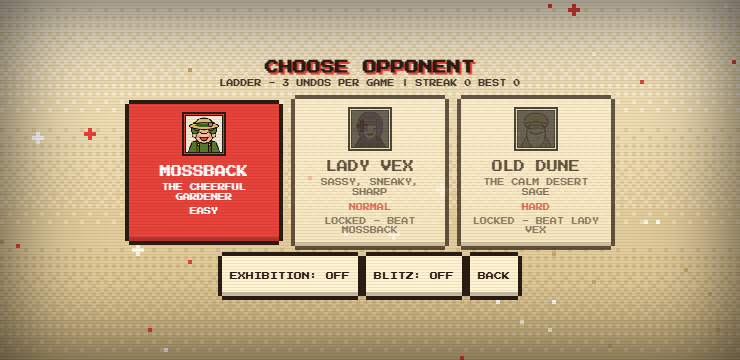
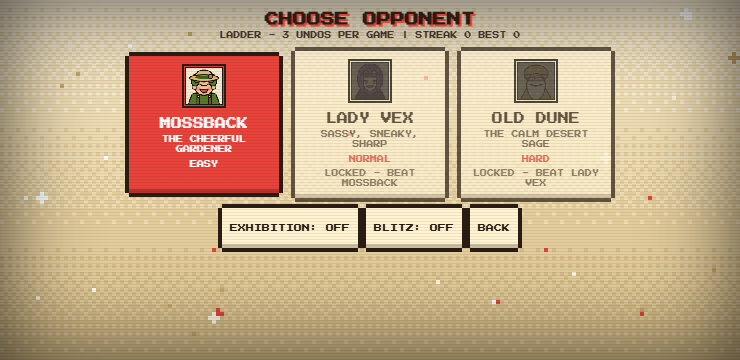
Endless ladder: procedural rivals past NOX
Clearing the campaign opens tier 1 (MOSSBACK I); each win vs the current tier unlocks the next. Tiers recycle the four campaign rivals with roman numerals, sharper every cycle (blunder rate down, one search level above base) and +300ms/cycle thinking budget (cap 1.8s). The ladder screen shows the last beaten tier, the current one, and the next locked with its BEAT teaser. prof.end, rec.eN, and snapshots all persist; endless ids stay out of world boards and local top lists. Also fixes a latent bug where the NOX unlock was dropped on reload, and sceneSet crashing for endless ids (now keyed by opp.sty). Adds tests/endless-test.js (37 checks) and engine-test coverage; 18 suites total.

diff --git a/chess/index.html b/chess/index.html
@@ -231,6 +231,8 @@ button:disabled{opacity:.35;pointer-events:none}
 #bt.idle{opacity:.5}
 #oq{text-align:center!important;font-size:8px!important;opacity:.85;margin:0 0 12px!important}
 #s-opp h2{font-size:14px;margin:0 0 10px;text-shadow:2px 2px 0 var(--accent)}
+/* endless ladders add cards: keep the screen centered when they fit, scrollable when they do not */
+#s-opp{overflow-y:auto}#s-opp h2{margin-top:auto}#s-opp .row{margin-bottom:auto}
 #ol{display:flex;flex-direction:column;align-items:center}
 .oc{display:flex;align-items:center;gap:12px;width:min(88vw,330px);margin:10px 0;padding:10px;text-align:left}
 .oc canvas{width:48px;height:48px;margin:0;flex:none;box-shadow:0 0 0 2px var(--edge)}
@@ -278,7 +280,7 @@ button:disabled{opacity:.35;pointer-events:none}
 .m-subrow .sm-mm .mi{font-size:10px;width:auto;margin-right:4px}
 .m-subrow .sm-mm .mtx{flex:none}
 .sr-only{position:absolute;width:1px;height:1px;padding:0;margin:-1px;overflow:hidden;clip:rect(0,0,0,0);white-space:nowrap;border:0}
-@media (max-height:520px){#ol{flex-direction:row}.oc{flex-direction:column;width:150px;margin:6px 8px;text-align:center}.oc canvas{width:40px;height:40px}.ot{align-items:center}#s-opp h2{margin:0 0 4px}}
+@media (max-height:520px){#ol{flex-direction:row;flex-wrap:wrap;justify-content:center}.oc{flex-direction:column;width:150px;margin:6px 8px;text-align:center}.oc canvas{width:40px;height:40px}.ot{align-items:center}#s-opp h2{margin:0 0 4px}}
 /* wide screens: board on the left, info panel on the right */
 #app.on.wd{top:50%;bottom:auto;transform:translateY(-50%);height:var(--bh,640px);padding:0 var(--padh,28px);display:grid;grid-template-columns:auto var(--pw,460px);grid-template-rows:auto auto auto minmax(0,1fr) auto;column-gap:var(--cg,48px);row-gap:var(--rg,20px);justify-content:center;align-items:stretch;justify-items:stretch}
 .wd #bw{grid-column:1;grid-row:1/6;margin:0;align-self:center}
@@ -294,7 +296,7 @@ button:disabled{opacity:.35;pointer-events:none}
 .wd .bub{font-size:calc(11px*var(--fs,1));line-height:1.7;min-height:calc(88px*var(--fs,1));height:auto;padding:16px 18px}
 .wd .rib{display:grid;grid-template-columns:calc(44px*var(--fs,1)) 1fr 1fr;align-content:start;gap:8px 0;height:auto;min-height:0;white-space:normal;overflow-x:hidden;overflow-y:auto;padding:14px 16px;font-size:calc(11px*var(--fs,1));line-height:1.6;scrollbar-width:thin}
 .wd .rib span{margin:0}.wd .rib .cur{margin:0 6px 0 -3px;justify-self:start}.wd .rib .em{grid-column:1/-1}
-@media (min-width:1000px) and (min-height:700px){#ol{flex-direction:row;gap:28px}.oc{flex-direction:column;width:280px;margin:14px;padding:22px;text-align:center}.oc canvas{width:112px;height:112px}.ot{align-items:center;gap:10px}.ot b{font-size:14px}.ot i{font-size:8px}.ot u{font-size:9px}#s-opp h2{font-size:20px;margin-bottom:20px}}
+@media (min-width:1000px) and (min-height:700px){#ol{flex-direction:row;flex-wrap:wrap;justify-content:center;gap:28px}.oc{flex-direction:column;width:280px;margin:14px;padding:22px;text-align:center}.oc canvas{width:112px;height:112px}.ot{align-items:center;gap:10px}.ot b{font-size:14px}.ot i{font-size:8px}.ot u{font-size:9px}#s-opp h2{font-size:20px;margin-bottom:20px}}
 @keyframes bl{50%{opacity:0}}
 @keyframes dt{0%{content:'.'}33%{content:'..'}66%{content:'...'}}
 @keyframes hp{50%{transform:translateY(-3px)}}
@@ -596,7 +598,7 @@ const mkInitials=(name)=>{name=String(name||'').toUpperCase().replace(/[^A-Z0-9 
 let s=name.split(/\s+/).map(w=>w[0]).join('');const w0=s;
 if(s.length<3){const flat=name.replace(/\s+/g,'');for(const ch of flat){if(s.length>=3)break;if(!s.includes(ch))s+=ch}
 while(s.length<3)s+=w0[s.length%w0.length]}return s.slice(0,3)};
-const newProfile=()=>({v:1,hd:1,unlocked:['moss'],rec:{},streak:0,bestStreak:0,games:[],total:{w:0,l:0,d:0},theme:{board:'scene',piece:'classic'},top:{fast:{},mate:{},streaks:[]},vol:.7,puz:{streak:0,best:0,last:'',wins:0,days:{}},trn:{last:'',best:0,wins:0},xp:0,name:'YOU',cmt:0,crt:1,pid:mkPid(),elo:1000,initials:'',fin:{eq:{P:'base',N:'base',B:'base',R:'base',Q:'base',K:'base'}}});
+const newProfile=()=>({v:1,hd:1,unlocked:['moss'],rec:{},streak:0,bestStreak:0,games:[],total:{w:0,l:0,d:0},theme:{board:'scene',piece:'classic'},top:{fast:{},mate:{},streaks:[]},vol:.7,puz:{streak:0,best:0,last:'',wins:0,days:{}},trn:{last:'',best:0,wins:0},end:0,xp:0,name:'YOU',cmt:0,crt:1,pid:mkPid(),elo:1000,initials:'',fin:{eq:{P:'base',N:'base',B:'base',R:'base',Q:'base',K:'base'}}});
 const nn=(x,d=0)=>Number.isFinite(x)&&x>=0?Math.floor(x):d;
 const LESS={fast:(e,x)=>e.ms<x.ms,mate:(e,x)=>e.moves<x.moves||(e.moves==x.moves&&e.ms<x.ms),streaks:(e,x)=>e.n>x.n};
 /* insert into a top list (best first, max TOPN). Returns the 1-based rank, or 0 if it did not make the list. */
@@ -614,6 +616,16 @@ if(q.clear)return !!(p.rec.dune&&p.rec.dune.w>0);return false}
 function finKeys(p){const o=[];for(const t in FIN_REQ)if(finUnlocked(p,t))o.push(t);return o}
 function setFin(p,t,id){if(id!='base'&&!finUnlocked(p,t))return false;p.fin.eq[t]=id=='alt'?'alt':'base';return true}
 const finReqText=q=>!q?'':q.beat?'BEAT '+OPPS[OPP_ORDER.indexOf(q.beat)].name:q.streak?q.streak+' WIN STREAK':'CLEAR THE LADDER';
+/* endless ladder: procedural rivals past the campaign */
+const EID=/^e([1-9]\d{0,2})$/,ROMAN=[[1000,'M'],[900,'CM'],[500,'D'],[400,'CD'],[100,'C'],[90,'XC'],[50,'L'],[40,'XL'],[10,'X'],[9,'IX'],[5,'V'],[4,'IV'],[1,'I']];
+function romanNum(n){n=Math.max(1,Math.min(999,n|0));let s='';for(const[v,r]of ROMAN)while(n>=v){s+=r;n-=v}return s}
+/* tier n recycles a campaign rival: same look and voice, sharper each cycle, bigger thinking budget */
+function endOpp(n){n=Math.max(1,Math.min(999,n|0));const base=OPPS[(n-1)%OPPS.length],cyc=(n-1)/OPPS.length|0;
+return{id:'e'+n,name:base.name+' '+romanNum(n),tag:base.tag,lv:'TIER '+n,lvl:Math.max(1,base.lvl),p:{bl:Math.max(0,(base.p.bl||0)-cyc*.03),a:base.p.a||0,c:base.p.c||0},sty:base.sty,pal:base.pal,say:base.say,endless:true,ms:Math.min(1800,(base.lvl>=2?900:260)+cyc*300)}}
+function oppById(id){const k=OPPS.findIndex(x=>x.id===id);if(k>=0)return OPPS[k];const m=EID.exec(id||'');return m?endOpp(+m[1]):null}
+/* next rival after a win: campaign order, then NOX, then the endless tier you are on */
+function nextOpp(id){const k=OPPS.findIndex(x=>x.id===id);if(k>=0)return OPPS[k+1]||((prof.end|0)>0?endOpp(prof.end):null);
+return EID.test(id||'')&&(prof.end|0)>0?endOpp(prof.end):null}
 function cleanTop(a,kind){if(!Array.isArray(a))return[];const o=[];
 for(const e of a){if(!e||typeof e!='object')continue;
 if(kind=='fast'&&Number.isFinite(e.ms)&&e.ms>0)o.push({ms:Math.floor(e.ms),plies:nn(e.plies),undos:nn(e.undos),date:nn(e.date)});
@@ -622,10 +634,10 @@ if(kind=='streaks'&&Number.isFinite(e.n)&&e.n>=1)o.push({n:Math.floor(e.n),date:
 const L=[];for(const e of o)ins(L,e,LESS[kind]);return L}
 function loadProfile(st){const p=newProfile();let o=null;try{const t=st&&st.getItem(PKEY);if(t)o=JSON.parse(t)}catch(e){}
 if(!o||typeof o!='object'||o.v!==1)return p;
-if(Array.isArray(o.unlocked))for(const id of o.unlocked)if(OPP_ORDER.includes(id)&&!p.unlocked.includes(id))p.unlocked.push(id);
-if(o.rec&&typeof o.rec=='object')for(const id of OPP_ORDER){const r=o.rec[id];if(r&&typeof r=='object')p.rec[id]={w:nn(r.w),l:nn(r.l),d:nn(r.d)}}
+if(Array.isArray(o.unlocked))for(const id of o.unlocked)if((OPP_ORDER.includes(id)||id=='nox')&&!p.unlocked.includes(id))p.unlocked.push(id);
+if(o.rec&&typeof o.rec=='object')for(const id of Object.keys(o.rec)){if(!OPP_ORDER.includes(id)&&!EID.test(id))continue;const r=o.rec[id];if(r&&typeof r=='object')p.rec[id]={w:nn(r.w),l:nn(r.l),d:nn(r.d)}}
 if(o.total&&typeof o.total=='object')p.total={w:nn(o.total.w),l:nn(o.total.l),d:nn(o.total.d)};
-p.streak=nn(o.streak);p.bestStreak=Math.max(nn(o.bestStreak),p.streak);p.xp=nn(o.xp);
+p.streak=nn(o.streak);p.bestStreak=Math.max(nn(o.bestStreak),p.streak);p.xp=nn(o.xp);p.end=Math.min(999,nn(o.end||0));
 if(o.puz&&typeof o.puz=='object'){p.puz={streak:nn(o.puz.streak),best:Math.max(nn(o.puz.best),nn(o.puz.streak)),last:typeof o.puz.last=='string'?o.puz.last.slice(0,10):'',wins:nn(o.puz.wins),days:{}};
 if(o.puz.days&&typeof o.puz.days=='object')for(const dn of Object.keys(o.puz.days))if(/^\d{4}-\d{2}-\d{2}$/.test(dn))p.puz.days[dn]=1;
 if(/^\d{4}-\d{2}-\d{2}$/.test(p.puz.last))p.puz.days[p.puz.last]=1;
@@ -633,7 +645,7 @@ const dks=Object.keys(p.puz.days);if(dks.length>120){dks.sort();for(let di=0;di<
 const otr=o.trn&&typeof o.trn=='object'?o.trn:{};
 p.trn={last:typeof otr.last=='string'?otr.last.slice(0,10):'',best:nn(otr.best),wins:nn(otr.wins)};
 for(const t of['P','N','B','R','Q','K'])p.fin.eq[t]=(o.fin&&o.fin.eq&&o.fin.eq[t]=='alt'&&finUnlocked(p,t))?'alt':'base';
-if(Array.isArray(o.games))p.games=o.games.filter(g=>g&&typeof g=='object'&&OPP_ORDER.includes(g.id)&&'wld'.includes(g.res)).slice(0,100);
+if(Array.isArray(o.games))p.games=o.games.filter(g=>g&&typeof g=='object'&&(OPP_ORDER.includes(g.id)||EID.test(g.id))&&'wld'.includes(g.res)).slice(0,100);
 if(o.top&&typeof o.top=='object'){for(const id of OPP_ORDER){const f=cleanTop(o.top.fast&&o.top.fast[id],'fast'),m=cleanTop(o.top.mate&&o.top.mate[id],'mate');if(f.length)p.top.fast[id]=f;if(m.length)p.top.mate[id]=m}
 p.top.streaks=cleanTop(o.top.streaks,'streaks')}
 else{ /* save from before the leaderboards: rebuild what the game history still knows */
@@ -662,17 +674,20 @@ const xpTitle=x=>{let t=RANKS[0][1];for(const[m,n]of RANKS)if(x>=m)t=n;return t}
 function recordResult(p,r){const before=themeKeys(p);const finBefore=finKeys(p);const rc=p.rec[r.id]||(p.rec[r.id]={w:0,l:0,d:0});rc[r.res]++;p.total[r.res]++;
 const oldRank=xpTitle(p.xp||0);
 p.xp=(p.xp||0)+(r.res=='w'?100:r.res=='d'?30:10);
-const out={unlocked:null,cleared:false,bonus:null,rankUp:null,streakFiled:0,newBest:[],ranks:{time:0,moves:0},themes:[],finishers:[]};
+const out={unlocked:null,cleared:false,bonus:null,endless:0,endlessOpen:false,rankUp:null,streakFiled:0,newBest:[],ranks:{time:0,moves:0},themes:[],finishers:[]};
 if(xpTitle(p.xp)!=oldRank)out.rankUp=xpTitle(p.xp);
 if(r.res=='w'){p.streak++;if(p.streak>p.bestStreak)p.bestStreak=p.streak;
-const i=OPP_ORDER.indexOf(r.id),nx=OPP_ORDER[i+1];
+const i=OPP_ORDER.indexOf(r.id),nx=i>=0?OPP_ORDER[i+1]:null;
 if(nx&&!p.unlocked.includes(nx)){p.unlocked.push(nx);out.unlocked=nx}
 if(i==OPP_ORDER.length-1&&rc.w==1)out.cleared=true;
-if(out.cleared&&!p.unlocked.includes('nox')){p.unlocked.push('nox');out.bonus='nox'}
-const mv=Math.max(1,Math.ceil(r.plies/2)),T=p.top;
+if(out.cleared){if(!p.unlocked.includes('nox')){p.unlocked.push('nox');out.bonus='nox'}
+if(!(p.end|0)){p.end=1;out.endlessOpen=true}}
+const em=EID.exec(r.id);
+if(em){const n=+em[1];if(n==(p.end|0)){p.end=n+1;out.endless=n}}
+else{const mv=Math.max(1,Math.ceil(r.plies/2)),T=p.top;
 if(r.mate)out.ranks.moves=ins(T.mate[r.id]||(T.mate[r.id]=[]),{moves:mv,ms:r.ms,undos:r.undos,date:r.date},LESS.mate);
 if(mv>=MIN_FAST&&r.ms>0)out.ranks.time=ins(T.fast[r.id]||(T.fast[r.id]=[]),{ms:r.ms,plies:r.plies,undos:r.undos,date:r.date},LESS.fast);
-if(out.ranks.moves==1)out.newBest.push('moves');if(out.ranks.time==1)out.newBest.push('time')}
+if(out.ranks.moves==1)out.newBest.push('moves');if(out.ranks.time==1)out.newBest.push('time')}}
 else if(r.res=='l'){out.streakFiled=p.streak;if(p.streak>0)ins(p.top.streaks,{n:p.streak,date:r.date},LESS.streaks);p.streak=0}
 p.games.unshift({id:r.id,res:r.res,plies:r.plies,ms:r.ms,caps:r.caps,left:r.left,undos:r.undos,date:r.date,san:r.san});
 if(p.games.length>100)p.games.length=100;
@@ -1720,7 +1735,7 @@ function aiMove(){if(over||an||sa||turn!='b'||!inGame)return;if(paused||cmtOn())
 const id=++reqId,g=gid,t0=performance.now();
 const done=m=>{if(id!==reqId||g!==gid||!inGame||over||turn!='b'||!m)return;
 setTimeout(()=>{if(id!==reqId||g!==gid||over)return;if(paused||cmtOn()){aiPend=m;return}play(...m)},Math.max(0,360-(performance.now()-t0)))};
-if(wk){wkCb=done;wk.postMessage({id,rows:b.map(r=>r.slice()),cr:b.cr,ep:b.ep,lvl:opp.lvl,pers:opp.p})}else setTimeout(()=>done(pick(b,opp.lvl,'b',0,opp.p)),30)}
+if(wk){wkCb=done;wk.postMessage({id,rows:b.map(r=>r.slice()),cr:b.cr,ep:b.ep,lvl:opp.lvl,pers:opp.p,ms:opp.ms||0})}else setTimeout(()=>done(pick(b,opp.lvl,'b',opp.ms||0,opp.p)),30)}
 function play(r,c,y,x,promo,dp){const p=b[r][c],cap=b[y][x],epc=p[1]=='P'&&c!=x&&!cap,hit=!!(cap||epc);sel=null;moves=[];drag=null;
 const fin=()=>commit(r,c,y,x,promo||'Q',hit);
 if(!fx){sfx(hit?'thud':'move');fin();return}
@@ -2547,6 +2562,8 @@ if(lastOut.res=='w'){L.push('WIN STREAK: '+prof.streak+' (BEST '+prof.bestStreak
 if(o.unlocked){unl=OPPS[OPP_ORDER.indexOf(o.unlocked)];L.push('NEW OPPONENT: '+unl.name+'!')}
 else if(o.cleared)L.push('LADDER CLEARED!');
 if(o.bonus){unl=OPPS.find(x=>x.id==o.bonus);L.push('SECRET OPPONENT: '+unl.name+'!')}
+if(o.endlessOpen)L.push('ENDLESS LADDER OPEN: '+endOpp(1).name+' AWAITS!');
+if(o.endless){unl=endOpp(o.endless+1);L.push('ENDLESS TIER '+o.endless+' CLEARED! NEW RIVAL: '+unl.name+'!')}
 if(o.ranks.moves==1)L.push('NEW BEST: FEWEST MOVES');else if(o.ranks.moves)L.push('TOP 5 FEWEST MOVES: #'+o.ranks.moves);
 if(o.ranks.time==1)L.push('NEW BEST: FASTEST WIN');else if(o.ranks.time)L.push('TOP 5 FASTEST WIN: #'+o.ranks.time);
 if(o.rankUp)L.push('NEW RANK: '+o.rankUp);
@@ -3001,7 +3018,16 @@ const tx=document.createElement('span');tx.className='ot';
 const em=open?(r.w+r.l+r.d?'W'+r.w+' L'+r.l+' D'+r.d+(r.w?' - BEATEN':''):'NOT PLAYED YET'):(exh?'LOCKED - EXHIBITION':'LOCKED - BEAT '+OPPS[i-1].name);
 tx.innerHTML='<b>'+o.name+'</b><i>'+o.tag+'</i><u>'+o.lv+'</u><em>'+em+'</em>';bt.append(cn,tx);
 bt.onclick=()=>{if(!can)return;scr('s-opp',0);startGame(1,o,exh||!open)};L.appendChild(bt)});
-$('osm').textContent=(exh?'EXHIBITION - NOT COUNTED, UNLIMITED UNDO':'LADDER - 3 UNDOS PER GAME')+' | STREAK '+prof.streak+' BEST '+prof.bestStreak+(store?'':' | PROGRESS NOT SAVED ON THIS DEVICE');
+const end=prof.end|0;
+if(end>0){const hd=document.createElement('div');hd.className='lab';hd.textContent='ENDLESS LADDER - TIER '+end;L.appendChild(hd);
+for(let n=Math.max(1,end-1);n<=end+1;n++){const o=endOpp(n),open=n<=end,r=prof.rec[o.id]||{w:0,l:0,d:0};
+const bt=document.createElement('button');bt.className='oc'+(open?'':' lk');bt.setAttribute('aria-disabled',open?'false':'true');
+const cn=document.createElement('canvas');cn.width=cn.height=96;portrait(cn.getContext('2d'),o,'h',false);
+const tx=document.createElement('span');tx.className='ot';
+const em=open?(r.w+r.l+r.d?(n<end?'BEATEN':'CURRENT')+' - W'+r.w+' L'+r.l+' D'+r.d:'NOT PLAYED YET'):'LOCKED - BEAT '+endOpp(n-1).name;
+tx.innerHTML='<b>'+o.name+'</b><i>'+o.tag+'</i><u>'+o.lv+'</u><em>'+em+'</em>';bt.append(cn,tx);
+bt.onclick=()=>{if(!open)return;scr('s-opp',0);startGame(1,o,false)};L.appendChild(bt)}}
+$('osm').textContent=(exh?'EXHIBITION - NOT COUNTED, UNLIMITED UNDO':'LADDER - 3 UNDOS PER GAME')+' | STREAK '+prof.streak+' BEST '+prof.bestStreak+(end>0?' | ENDLESS TIER '+end:'')+(store?'':' | PROGRESS NOT SAVED ON THIS DEVICE');
 $('ex').textContent='EXHIBITION: '+(exh?'ON':'OFF')}
 /* ---- themes and profile screens ---- */
 const reqText=q=>!q?'':q.beat?'BEAT '+OPPS[OPP_ORDER.indexOf(q.beat)].name:q.streak+' WIN STREAK';
@@ -3033,7 +3059,10 @@ PTABS.forEach((n,i)=>{const bt=document.createElement('button');bt.className='sm
 let h='';const t=prof.total;
 if(pfTab==0){h+='<div class="px ps"><h3>ALL LADDER GAMES</h3>'+lnRow('WINS / LOSSES / DRAWS',t.w+' / '+t.l+' / '+t.d)+lnRow('WIN STREAK NOW',prof.streak)+lnRow('BEST WIN STREAK',prof.bestStreak)+lnRow('RANK',xpTitle(prof.xp||0)+' - '+(prof.xp||0)+' XP')+lnRow('PUZZLE STREAK',prof.puz.streak+' (BEST '+prof.puz.best+')')+'</div>';
 h+='<div class="px ps"><h3>BY OPPONENT</h3>';
-for(const o of OPPS){if(!isUnlocked(prof,o.id)){h+=lnRow('???','LOCKED');continue}const r=prof.rec[o.id]||{w:0,l:0,d:0};h+=lnRow(o.name,'W'+r.w+' L'+r.l+' D'+r.d)}h+='</div>';
+for(const o of OPPS){if(!isUnlocked(prof,o.id)){h+=lnRow('???','LOCKED');continue}const r=prof.rec[o.id]||{w:0,l:0,d:0};h+=lnRow(o.name,'W'+r.w+' L'+r.l+' D'+r.d)}
+if((prof.end|0)>0){let ew=0,el=0,ed=0;for(const id in prof.rec)if(EID.test(id)){const r=prof.rec[id];ew+=r.w;el+=r.l;ed+=r.d}
+h+=lnRow('ENDLESS TIERS BEATEN',Math.max(0,(prof.end|0)-1))+lnRow('ENDLESS RIVALS','W'+ew+' L'+el+' D'+ed)}
+h+='</div>';
 h+='<div class="px ps"><h3>WORLD BOARD NAME</h3><div class="ln"><span>NAME</span><span><input id="pfname" maxlength="12" value="'+prof.name+'"></span></div><div class="ln"><span>INITIALS</span><span><input id="pfini" maxlength="3" value="'+(prof.initials||mkInitials(prof.name))+'"></span></div></div>'}
 else if(pfTab==1){const L=streakBoard(prof);h+='<div class="px ps"><h3>BEST WIN STREAKS</h3>';
 if(!L.length)h+='<div class="ln"><span>NO STREAKS YET - WIN A LADDER GAME</span></div>';
@@ -3072,7 +3101,7 @@ const f=[...v.querySelectorAll('.tm')].filter(x=>!x.hidden&&x.offsetParent!==nul
 $('onl').onclick=()=>showNet();$('netb').onclick=()=>{netLeave();scr('s-net',0);scr('s-title',1);foc('onl')};
 $('neth').onclick=()=>netHost();$('netj').onclick=()=>netJoin($('netcode').value);$('netq').onclick=()=>netQuick();$('netshare').onclick=()=>netShare();$('bz2').onclick=blitzCycle;
 document.querySelectorAll('#emo [data-em]').forEach(b=>b.onclick=()=>emote(b.getAttribute('data-em')));
-$('ob').onclick=()=>{scr('s-opp',0);scr('s-title',1);foc('shPlay')};$('ex').onclick=()=>{exh=!exh;renderOpp()};$('bz').onclick=blitzCycle;$('nx').onclick=()=>{const o=OPPS[OPP_ORDER.indexOf(opp.id)+1];if(o)startGame(1,o,false)};$('sh').onclick=()=>shareCard();
+$('ob').onclick=()=>{scr('s-opp',0);scr('s-title',1);foc('shPlay')};$('ex').onclick=()=>{exh=!exh;renderOpp()};$('bz').onclick=blitzCycle;$('nx').onclick=()=>{const o=nextOpp(opp.id);if(o)startGame(1,o,false)};$('sh').onclick=()=>shareCard();
 Q('.tlvl').forEach(e=>e.onclick=()=>{lvl=(lvl+1)%3;Q('.tlvl').forEach(x=>x.textContent='CPU: '+['EASY','NORMAL','HARD'][lvl])});
 /* settings: shared between the title menu switches and the pause-screen buttons */
 function syncToggles(){Q('.tsnd').forEach(x=>x.textContent=snd?'SND ON':'SND OFF');Q('.tfx').forEach(x=>x.textContent=fx?'FX ON':'FX OFF');
@@ -3177,7 +3206,7 @@ nox:{board:{d:['#241640','#2e1c55','#180e30','#2a1a4e','#1e1238'],l:['#6a5a9a','
  const X=Math.round(q.x),Y=Math.round(q.y);bx.fillStyle=Math.sin(bgT*.15+q.ph)>0?'#7ff0ff':'#4a3a8a';bx.fillRect(X,Y,1,1)}}}};
 let scn=null,scP=0,scS=[],scCl=[],scStar=[];
 const SCP=()=>Math.round(Math.min(1,hist.length/80)*8)/8;
-function sceneSet(){scn=ai&&inGame?opp.id:null;mkbg(boardCols());bgBuild();bgTick();if(scn)musStart(scn);else musStop(true)}
+function sceneSet(){scn=ai&&inGame?(opp.sty||opp.id):null;mkbg(boardCols());bgBuild();bgTick();if(scn)musStart(scn);else musStop(true)}
 function sceneUpdate(){if(scn&&SCP()!=scP){bgBuild();bgTick()}}
 for(const n of['move','undo','newgame'])BUS.on(n,sceneUpdate);
 function sceneBuild(w,h){const S=SCENES[scn],p=scP=SCP();bgBase=document.createElement('canvas');bgBase.width=w;bgBase.height=h;const g=bgBase.getContext('2d'),im=g.createImageData(w,h);
@@ -3404,7 +3433,7 @@ function shValid(s){
   if(!s.b||!Array.isArray(s.b.g)||s.b.g.length!==8||!s.b.g.every(function(r){return Array.isArray(r)&&r.length===8}))return null;
   if(!s.b.cr)return null;
   if(!Array.isArray(s.hist))return null;
-  if(s.ai&&(typeof s.oppId!=='string'||!OPPS.some(function(o){return o.id===s.oppId})))return null;
+  if(s.ai&&!oppById(s.oppId))return null;
   return s;
  }catch(e){return null}
 }
@@ -3412,7 +3441,7 @@ function shRestore(){
  var rec=null;try{rec=ArcadeShell.load('chess')}catch(e){}
  var s=rec&&shValid(rec.state);if(!s)return false;
  au();netLeave();
- ai=!!s.ai;opp=s.ai?(OPPS.find(function(o){return o.id===s.oppId})||OPPS[0]):OPPS[0];exh=!!s.exh;
+ ai=!!s.ai;opp=s.ai?(oppById(s.oppId)||OPPS[0]):OPPS[0];exh=!!s.exh;
  gmode=s.gmode;lvl=s.lvl|0;blitz=s.blitz|0;blitzInc=Math.max(0,s.inc|0);CLK={w:Math.max(0,s.cw|0),b:Math.max(0,s.cb|0)};clkT0=Date.now();
  undosLeft=Math.max(0,s.undos|0);recorded=false;lastOut=null;t0g=Date.now();pausedMs=0;
  b=shUnboards(s.b);turn=s.turn;

diff --git a/tests/endless-test.js b/tests/endless-test.js
@@ -1,0 +1,139 @@
+// Endless ladder checks: node tests/endless-test.js
+// Clearing the campaign opens tier 1 (MOSSBACK II); wins advance the tier, losses keep it,
+// tiers recycle the campaign cast with roman numerals, and records + NOX survive reloads.
+const { chromium } = require('playwright');
+(async () => {
+  const br = await chromium.launch();
+  const errs = []; let fails = 0;
+  const ok = (n, c, x = '') => { if (!c) fails++; console.log((c ? 'ok   ' : 'FAIL ') + n + (c ? '' : '  ' + JSON.stringify(x))); };
+  const url = 'file://' + __dirname + '/../chess/index.html';
+  // back-rank mate in one for White: Ra1-a8#
+  const setMate = pg => pg.evaluate(() => {
+    const e = Array.from({ length: 8 }, () => Array(8).fill(null));
+    e[0][6] = 'bK'; e[1][5] = 'bP'; e[1][6] = 'bP'; e[1][7] = 'bP'; e[7][6] = 'wK'; e[7][0] = 'wR';
+    e.cr = { wK: 0, wQ: 0, bK: 0, bQ: 0 }; e.ep = null; b = e; turn = 'w'; hist = []; status(); draw();
+  });
+  const mate = async pg => { await setMate(pg); await pg.evaluate(() => play(7, 0, 0, 0, 'Q')); await pg.waitForSelector('#s-over.on', { timeout: 4000 }); };
+  const lose = pg => pg.evaluate(() => {   // black mates white: Ra8#
+    const e = Array.from({ length: 8 }, () => Array(8).fill(null));
+    e[0][0] = 'bR'; e[7][6] = 'wK'; e[6][5] = 'wP'; e[6][6] = 'wP'; e[6][7] = 'wP'; e[0][4] = 'bK';
+    e.cr = { wK: 0, wQ: 0, bK: 0, bQ: 0 }; e.ep = null; b = e; turn = 'b'; hist = []; status(); draw(); play(0, 0, 7, 0, 'Q');
+  });
+  const seed = o => 'if(!localStorage.getItem("pixelchess.v1"))localStorage.setItem("pixelchess.v1",' + JSON.stringify(JSON.stringify(o)) + ')';
+  const seedEnd = end => seed({
+    v: 1, unlocked: ['moss', 'vex', 'dune', 'nox'], end, xp: 700, streak: 2, bestStreak: 3, total: { w: 3, l: 1, d: 0 },
+    rec: { moss: { w: 1, l: 0, d: 0 }, vex: { w: 1, l: 0, d: 0 }, dune: { w: 1, l: 0, d: 0 }, e55: { w: 1, l: 0, d: 0 }, e56: { w: 0, l: 1, d: 0 } },
+    games: [], theme: { board: 'scene', piece: 'classic' }, top: { fast: {}, mate: {}, streaks: [] },
+    puz: { streak: 0, best: 0, last: '', wins: 0, days: {} }, trn: { last: '', best: 0, wins: 0 },
+    fin: { eq: { P: 'base', N: 'base', B: 'base', R: 'base', Q: 'base', K: 'base' } }
+  });
+  const mk = async (vp, init) => {
+    const ctx = await br.newContext({ viewport: vp }); const pg = await ctx.newPage();
+    pg.on('pageerror', e => errs.push(e.message));
+    if (init) await pg.addInitScript(init);
+    await pg.goto(url); await pg.waitForTimeout(300);
+    await pg.evaluate(() => { fx = false; snd = false; });
+    return pg;
+  };
+  const reload = async pg => { await pg.reload(); await pg.waitForTimeout(300); await pg.evaluate(() => { fx = false; snd = false; }); };
+  // ---- clear the campaign through real games ----
+  {
+    const pg = await mk({ width: 390, height: 780 });
+    await pg.click('[data-m="1"]');
+    ok('fresh ladder has no endless section', (await pg.locator('#ol .lab').count()) === 0);
+    await pg.locator('.oc').first().click();
+    await mate(pg);
+    ok('beating Mossback still unlocks Vex', /NEW OPPONENT: LADY VEX!/.test(await pg.locator('#out').innerText()));
+    await pg.click('#nx');
+    await mate(pg);
+    ok('beating Vex still unlocks Dune', /NEW OPPONENT: OLD DUNE!/.test(await pg.locator('#out').innerText()));
+    await pg.click('#nx');
+    await mate(pg);
+    const clearTxt = await pg.locator('#out').innerText();
+    const clear = await pg.evaluate(() => ({ end: prof.end, nx: document.getElementById('nx').textContent, save: JSON.parse(localStorage.getItem('pixelchess.v1')).end }));
+    ok('clearing reports Nox and the endless open', /LADDER CLEARED!/.test(clearTxt) && /SECRET OPPONENT: NOX!/.test(clearTxt) && /ENDLESS LADDER OPEN: MOSSBACK I AWAITS!/.test(clearTxt), clearTxt);
+    ok('endless tier 1 is live and saved', clear.end === 1 && clear.save === 1 && clear.nx === 'NEXT: NOX', clear);
+    await reload(pg);
+    ok('NOX and endless progress survive a reload', await pg.evaluate(() => isUnlocked(prof, 'nox') && prof.end === 1 && prof.rec.dune.w === 1));
+    await pg.click('[data-m="1"]');
+    ok('ladder shows the endless section', (await pg.locator('#ol .lab').innerText()).includes('ENDLESS LADDER - TIER 1'));
+    ok('menu strip mentions the tier', (await pg.locator('#osm').innerText()).includes('ENDLESS TIER 1'));
+    ok('tier 2 teases the rival to beat first', (await pg.locator('.oc.lk').count()) === 1 && (await pg.locator('.oc.lk').innerText()).includes('LOCKED - BEAT MOSSBACK I'));
+    const e1 = pg.locator('.oc').nth(4);
+    ok('tier 1 card is MOSSBACK I', /MOSSBACK I/.test(await e1.innerText()) && /TIER 1/.test(await e1.innerText()));
+    await e1.click();
+    const st = await pg.evaluate(() => ({ id: opp.id, name: opp.name, mode: gmode, exh: exh, nb: document.getElementById('nb').textContent, un: document.getElementById('un').innerText }));
+    ok('tier 1 starts as an endless ladder game', st.id === 'e1' && st.name === 'MOSSBACK I' && st.mode === 'ladder' && !st.exh && st.nb === 'MOSSBACK I' && st.un === 'UNDO 3', st);
+    const snap = await pg.evaluate(() => { const s = shSnapshot(); return s && { ok: !!shValid(s), oppId: s.oppId }; });
+    ok('endless games snapshot as themselves', snap.ok && snap.oppId === 'e1', snap);
+    await mate(pg);
+    const w1 = await pg.evaluate(() => ({ end: prof.end, nx: document.getElementById('nx').textContent, out: document.getElementById('out').innerText, w: prof.rec.e1.w }));
+    ok('tier 1 clear unlocks LADY VEX II', w1.end === 2 && w1.nx === 'NEXT: LADY VEX II' && /ENDLESS TIER 1 CLEARED! NEW RIVAL: LADY VEX II!/.test(w1.out) && w1.w === 1, w1);
+    ok('endless wins post no world bests', !/NEW BEST|TOP 5/.test(w1.out), w1.out);
+    await pg.click('#nx');
+    ok('NEXT takes you to tier 2', await pg.evaluate(() => opp.id === 'e2' && opp.name === 'LADY VEX II' && gmode === 'ladder'));
+    await lose(pg);
+    await pg.waitForSelector('#s-over.on', { timeout: 4000 });
+    ok('a loss keeps the tier and resets the streak', await pg.evaluate(() => prof.end === 2 && prof.streak === 0 && prof.rec.e2.l === 1) && /STREAK LOST/.test(await pg.locator('#out').innerText()));
+    ok('no NEXT after an endless loss', (await pg.locator('#nx.on').count()) === 0);
+    await pg.context().close();
+  }
+  // ---- a seeded high tier: window, labels, escalation, engine budget ----
+  {
+    const pg = await mk({ width: 390, height: 780 }, seedEnd(57));
+    await pg.click('[data-m="1"]');
+    ok('seeded save keeps tier 57', (await pg.locator('#ol .lab').innerText()).includes('TIER 57') && (await pg.locator('#osm').innerText()).includes('ENDLESS TIER 57'));
+    ok('the current tier and one either side are shown', (await pg.locator('.oc').count()) === 7 && (await pg.locator('.oc.lk').count()) === 1);
+    const labels = await pg.locator('#ol .oc em').allInnerTexts();
+    ok('beaten tier reads BEATEN, current is next up', labels.includes('BEATEN - W0 L1 D0') && labels.includes('NOT PLAYED YET'), labels);
+    ok('the next tier teases the one to beat', (await pg.locator('.oc.lk').innerText()).includes('LOCKED - BEAT MOSSBACK LVII'));
+    const gen = await pg.evaluate(() => { const o = endOpp(57), n1 = endOpp(1), n4 = endOpp(4), n60 = endOpp(60); return { name: o.name, lv: o.lv, lvl: o.lvl, ms: o.ms, bl: o.p.bl, id: o.id, viaId: oppById('e57').id, bad: oppById('x9'), n1: [n1.name, n1.ms], n4: [n4.name, n4.ms], n60: n60.name }; });
+    ok('tier 57 recycles MOSSBACK with LVII and a maxed budget', gen.name === 'MOSSBACK LVII' && gen.lv === 'TIER 57' && gen.lvl === 1 && gen.ms === 1800 && gen.bl === 0 && gen.id === 'e57' && gen.viaId === 'e57' && !gen.bad, gen);
+    ok('tier 1 starts at the base budget; NOX and LX name themselves', gen.n1[0] === 'MOSSBACK I' && gen.n1[1] === 260 && gen.n4[0] === 'NOX IV' && gen.n4[1] === 900 && gen.n60 === 'NOX LX', gen);
+    await pg.locator('.oc').nth(5).click();
+    ok('the current tier is playable at its own strength', await pg.evaluate(() => inGame && opp.id === 'e57' && gmode === 'ladder' && opp.ms === 1800));
+    const spy = await pg.evaluate(() => new Promise(res => {
+      window.__wk = null; window.__tm = null;
+      const origPick = pick;
+      pick = function () { window.__tm = arguments[3]; return origPick.apply(null, arguments) };
+      let hasWk = !!wk;
+      if (hasWk) { const o = wk.postMessage.bind(wk); wk.postMessage = m => { window.__wk = m; o(m) } }
+      turn = 'b'; aiMove();
+      setTimeout(() => res({ hasWk, wk: window.__wk, tm: window.__tm }), 200);
+    }));
+    ok('aiMove hands the engine the tier budget', spy.hasWk ? (spy.wk && spy.wk.ms === 1800 && spy.wk.lvl === 1 && spy.wk.pers && spy.wk.pers.bl === 0) : spy.tm === 1800, spy);
+    await mate(pg);
+    const w57 = await pg.evaluate(() => ({ end: prof.end, nx: document.getElementById('nx').textContent, out: document.getElementById('out').innerText }));
+    ok('beating tier 57 unlocks tier 58', w57.end === 58 && w57.nx === 'NEXT: LADY VEX LVIII' && /ENDLESS TIER 57 CLEARED! NEW RIVAL: LADY VEX LVIII!/.test(w57.out), w57);
+    await pg.click('#mn'); await pg.click('#pf');
+    const ptxt = await pg.locator('#pbody').innerText();
+    ok('profile screen shows endless progress', /ENDLESS TIERS BEATEN/.test(ptxt) && /ENDLESS RIVALS/.test(ptxt) && /W2 L1 D0/.test(ptxt), ptxt.slice(0, 400));
+    await reload(pg);
+    ok('tier progress, records, and games survive a reload', await pg.evaluate(() => prof.end === 58 && prof.rec.e57.w === 1 && prof.rec.e56.l === 1 && prof.games.some(g => g.id === 'e57')));
+    await pg.click('[data-m="1"]');
+    const e58 = pg.locator('.oc').nth(5);
+    ok('tier 58 card is LADY VEX LVIII', /LADY VEX LVIII/.test(await e58.innerText()) && /TIER 58/.test(await e58.innerText()));
+    await e58.click();
+    ok('tier 58 is the current rival now', await pg.evaluate(() => opp.id === 'e58' && opp.lv === 'TIER 58'));
+    const chain = await pg.evaluate(() => [nextOpp('moss').id, nextOpp('dune').id, nextOpp('nox').id, nextOpp('e58').id]);
+    ok('NEXT follows the campaign, then the endless tier', chain.join(' ') === 'vex nox e58 e58', chain);
+    await pg.context().close();
+  }
+  // ---- layout: the endless window fits every viewport ----
+  for (const [name, vp] of [['portrait', { width: 390, height: 780 }], ['small', { width: 360, height: 640 }], ['landscape', { width: 740, height: 360 }]]) {
+    const pg = await mk(vp, seedEnd(57));
+    await pg.click('[data-m="1"]');
+    ok(name + ' endless header and counts', (await pg.locator('#ol .lab').count()) === 1 && (await pg.locator('.oc').count()) === 7);
+    const last = pg.locator('.oc').last();
+    await last.scrollIntoViewIfNeeded();
+    const r = await last.boundingBox();
+    ok(name + ' last card reachable', r.y + r.height <= vp.height + 1 && r.x + r.width <= vp.width + 1, r);
+    await pg.evaluate(() => { document.getElementById('s-opp').scrollTop = 0 });
+    await pg.screenshot({ path: `endless-${name}.png` });
+    await pg.context().close();
+  }
+  await br.close();
+  console.log(errs.length ? 'PAGE ERRORS:\n' + errs.join('\n') : 'no page errors');
+  console.log(fails ? fails + ' FAILED' : 'all passed');
+  process.exit(fails || errs.length ? 1 : 0);
+})();

diff --git a/tests/engine-test.js b/tests/engine-test.js
@@ -243,7 +243,7 @@ eq('queen attacked by a defended bishop trembles', T('4k3/8/8/3q4/8/5B2/8/4K3 b 
 eq('kings never tremble', T('4k3/8/8/8/8/8/4q3/4K3 w - -').includes('7,4'), false);
 
 // --- profile / ladder rules ---
-const P = new Function(html.split('/*PROF*/')[1].split('/*PROFEND*/')[0] + ';return{loadProfile,saveProfile,recordResult,newProfile,isUnlocked,PKEY,themeUnlocked,setTheme,streakBoard,MIN_FAST,THEME_REQ,xpTitle,mkInitials,finUnlocked,setFin,finKeys,FIN_REQ}')();
+const P = new Function(html.split('/*PROF*/')[1].split('/*PROFEND*/')[0] + ';return{loadProfile,saveProfile,recordResult,newProfile,isUnlocked,PKEY,themeUnlocked,setTheme,streakBoard,MIN_FAST,THEME_REQ,xpTitle,mkInitials,finUnlocked,setFin,finKeys,FIN_REQ,romanNum,EID}')();
 const mem = () => { const d = {}; return { getItem: k => (k in d ? d[k] : null), setItem: (k, v) => { d[k] = String(v); }, d }; };
 const R = (id, res, o = {}) => Object.assign({ id, res, mate: res !== 'd', plies: 41, ms: 90000, caps: 3, left: 9, undos: 0, san: 'e4', date: 1 }, o);
 {
@@ -349,6 +349,36 @@ const R = (id, res, o = {}) => Object.assign({ id, res, mate: res !== 'd', plies
   for (let i = 0; i < 120; i++) P.recordResult(p, R('moss', 'w'));
   eq('game history capped at 100', p.games.length, 100);
   eq('history keeps the move list', typeof p.games[0].san, 'string');
+}
+// --- endless ladder ---
+{
+  eq('roman numerals', [P.romanNum(1), P.romanNum(4), P.romanNum(9), P.romanNum(58), P.romanNum(999), P.romanNum(0)], ['I', 'IV', 'IX', 'LVIII', 'CMXCIX', 'I']);
+  eq('endless id shape', [P.EID.test('e1'), P.EID.test('e999'), P.EID.test('e0'), P.EID.test('e1000'), P.EID.test('nox')], [true, true, false, false, false]);
+  const p = P.newProfile();
+  eq('fresh profile: endless locked', p.end, 0);
+  P.recordResult(p, R('moss', 'w')); P.recordResult(p, R('vex', 'w'));
+  let o = P.recordResult(p, R('dune', 'w'));
+  eq('clearing opens endless tier 1', [o.cleared, o.endlessOpen, p.end], [true, true, 1]);
+  o = P.recordResult(p, R('dune', 'w'));
+  eq('endless opens only once', [o.cleared, o.endlessOpen, p.end], [false, false, 1]);
+  o = P.recordResult(p, R('e1', 'w'));
+  eq('beating tier 1 unlocks tier 2', [o.endless, p.end, o.ranks], [1, 2, { time: 0, moves: 0 }]);
+  eq('endless wins stay out of the world-board tops', [p.top.fast.e1, p.top.mate.e1], [undefined, undefined]);
+  o = P.recordResult(p, R('e1', 'w'));
+  eq('replaying a beaten tier advances nothing', [o.endless, p.end], [0, 2]);
+  P.recordResult(p, R('e2', 'l'));
+  eq('losing to the current tier keeps it', [p.end, p.rec.e2.l], [2, 1]);
+  o = P.recordResult(p, R('e2', 'w'));
+  eq('beating the current tier advances', [o.endless, p.end], [2, 3]);
+  o = P.recordResult(p, R('e99', 'w'));
+  eq('beating a future tier advances nothing', [o.endless, p.end], [0, 3]);
+  const st = mem();
+  P.saveProfile(st, p);
+  const q = P.loadProfile(st);
+  eq('endless progress survives a reload', [q.end, q.rec.e2, q.games.some(g => g.id === 'e1')], [3, { w: 1, l: 1, d: 0 }, true]);
+  st.d[P.PKEY] = JSON.stringify({ v: 1, unlocked: ['nox', 'e1', 'bogus'], end: 42.7, rec: { e0: { w: 9 }, e7: { w: 2 }, zz: { w: 3 } } });
+  const r = P.loadProfile(st);
+  eq('endless save is sanitised', [r.unlocked, r.end, Object.keys(r.rec)], [['moss', 'nox'], 42, ['e7']]);
 }
 {
   const st = mem(); let p = P.newProfile();

diff --git a/ROADMAP.md b/ROADMAP.md
@@ -84,9 +84,16 @@ The room-code flow is the weakest link. Everything here reuses the existing sign
       practice; keeps streak display but adds history (uses the date-seeded generator, so it works offline).
       Shipped: calendar button beside DAILY PUZZLE, 30-day grid from `prof.puz.days` (capped at 120 keys),
       past days auto-run as practice (no XP, no streak, no history write).
-- [ ] **(M/L)** Endless ladder — after Nox, procedurally unlock rivals: reuse the `OPPS` shape
+- [x] **(M/L)** Endless ladder — after Nox, procedurally unlock rivals: reuse the `OPPS` shape
       (palette + taunts + `sty`), scale engine strength with XP, tease names ahead. Gives the ladder
       an infinite ceiling using systems that already exist.
+      Shipped: clearing the campaign opens tier 1 (`MOSSBACK I`); each win vs the current tier unlocks the
+      next. Tiers recycle the four campaign rivals with roman numerals (base cycle every 4), sharper every
+      cycle (blunder rate down, one search level above base) and a bigger thinking budget (+300ms/cycle,
+      capped at 1.8s). The ladder screen shows the last beaten tier, the current one, and the next one
+      locked with its "BEAT ..." teaser; records (`rec.eN`), progress (`prof.end`), and snapshots all
+      persist, and endless ids never post to world boards. Fixes a latent bug where the NOX unlock was
+      dropped on reload.
 - [x] **(S)** Time controls — add increment (3+2, 5+3) and bullet (1 min) to `blitzCycle`; clocks
       already tick correctly, so this is mostly UI + a couple of edge cases in `clockTick`/`flagFall`.
       Shipped: cycle walks OFF → 1 → 3 → 5 → 3+2 → 5+3; Fischer increment added to the mover's clock

diff --git a/README.md b/README.md
@@ -3,7 +3,7 @@
 Standalone retro pixel-art chess game.
 
 ## Features
-- **3-Tier AI Bot Ladder**: Challenge Mossback, Lady Vex, and Old Dune with dynamic tutor dialogue.
+- **Endless AI Ladder**: Challenge Mossback, Lady Vex, Old Dune, and the secret NOX with dynamic tutor dialogue — then keep climbing: every rival you beat past the campaign returns as a harder, roman-numbered tier with a bigger thinking budget.
 - **Online Multiplayer**: One-tap quick match with XP-based pairing, shareable challenge links, in-game emotes, online Elo ratings, real-time peer-to-peer WebRTC, and cross-tab offline play.
 - **Tactical Analytics**: Daily Puzzle with a 30-day archive (past days replay as no-XP practice), Mistake Trainer (drills from your worst moves, +5 XP each once a day), Puzzle Survival mode, Game Review & Accuracy Report Card, Opening Banners, and Eval Gauge.
 - **Ghost Replays**: World-board records keep the record holder's full game; "RACE THE GHOST" shadows their moves on your board while you try to mate faster.
